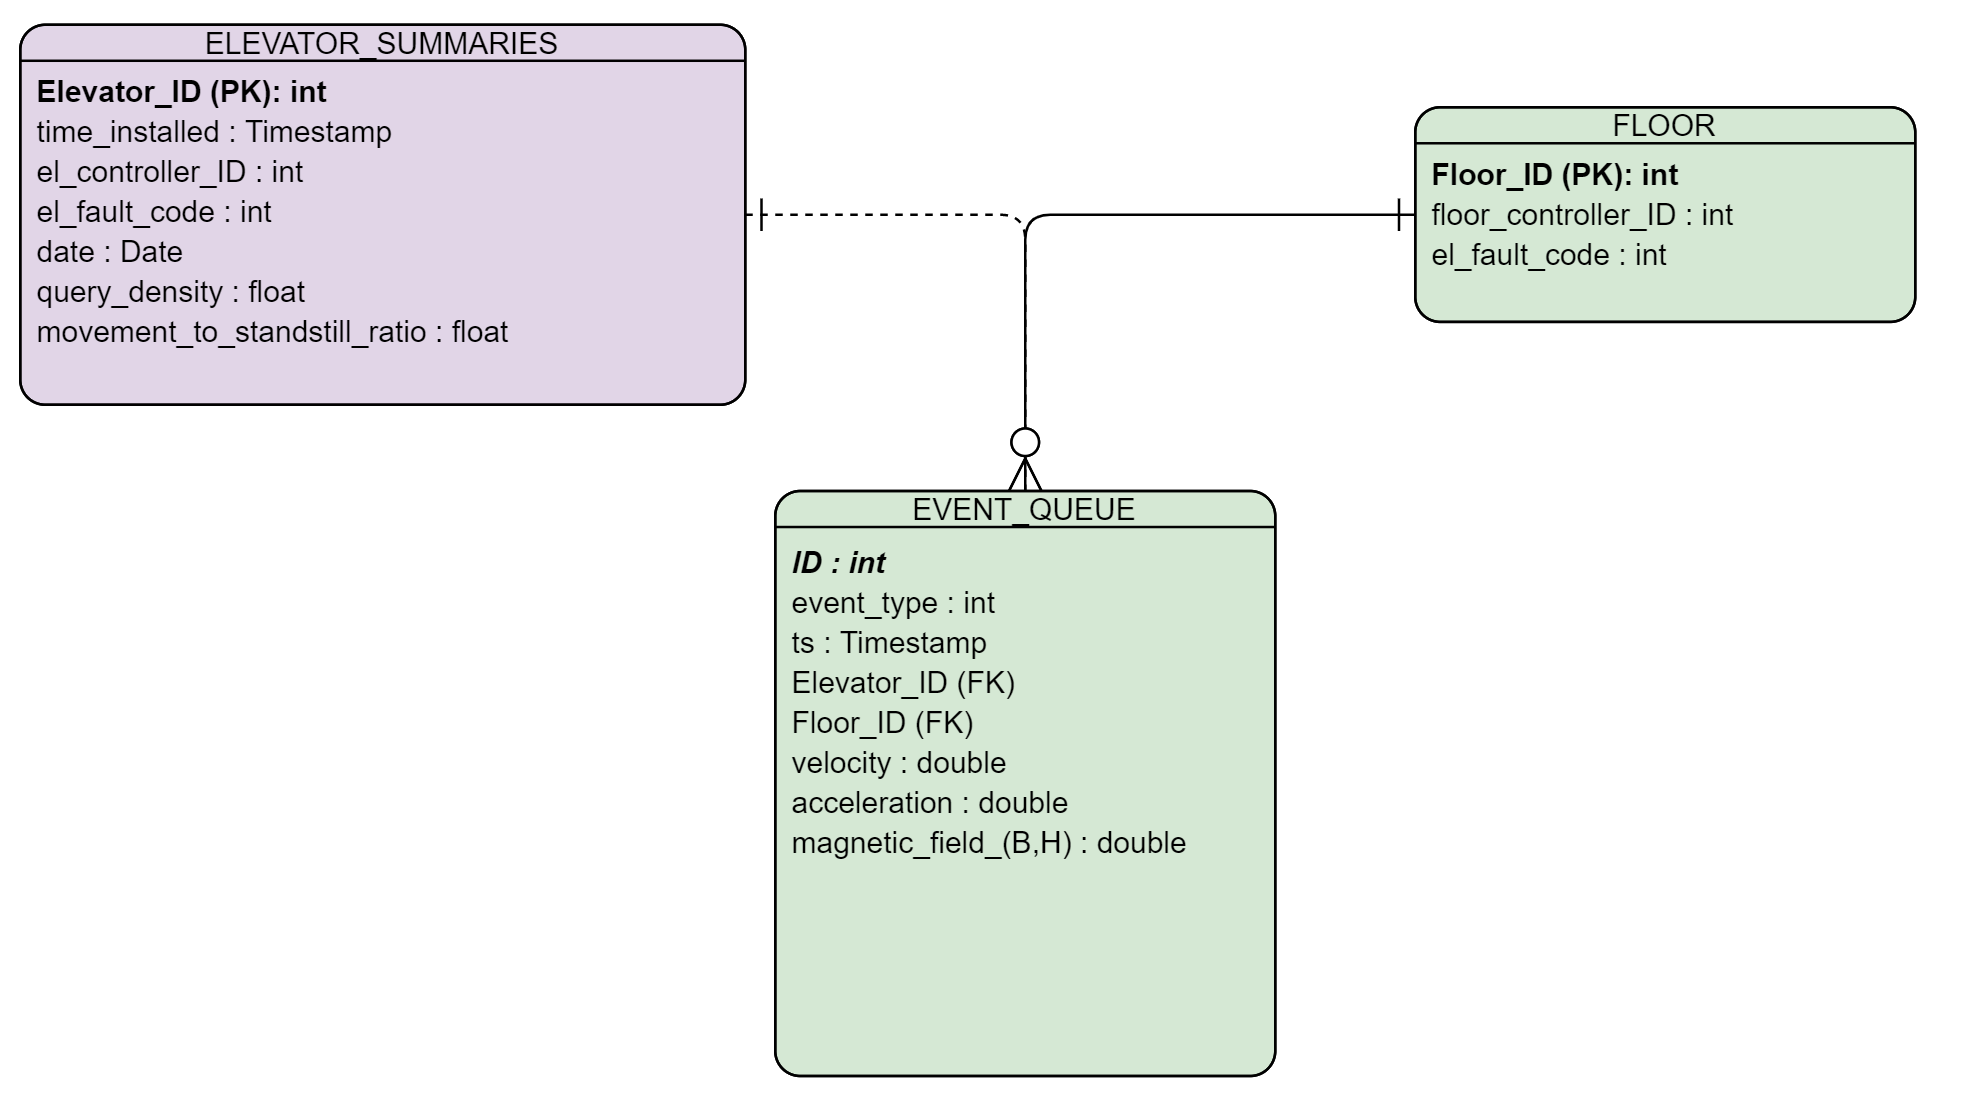
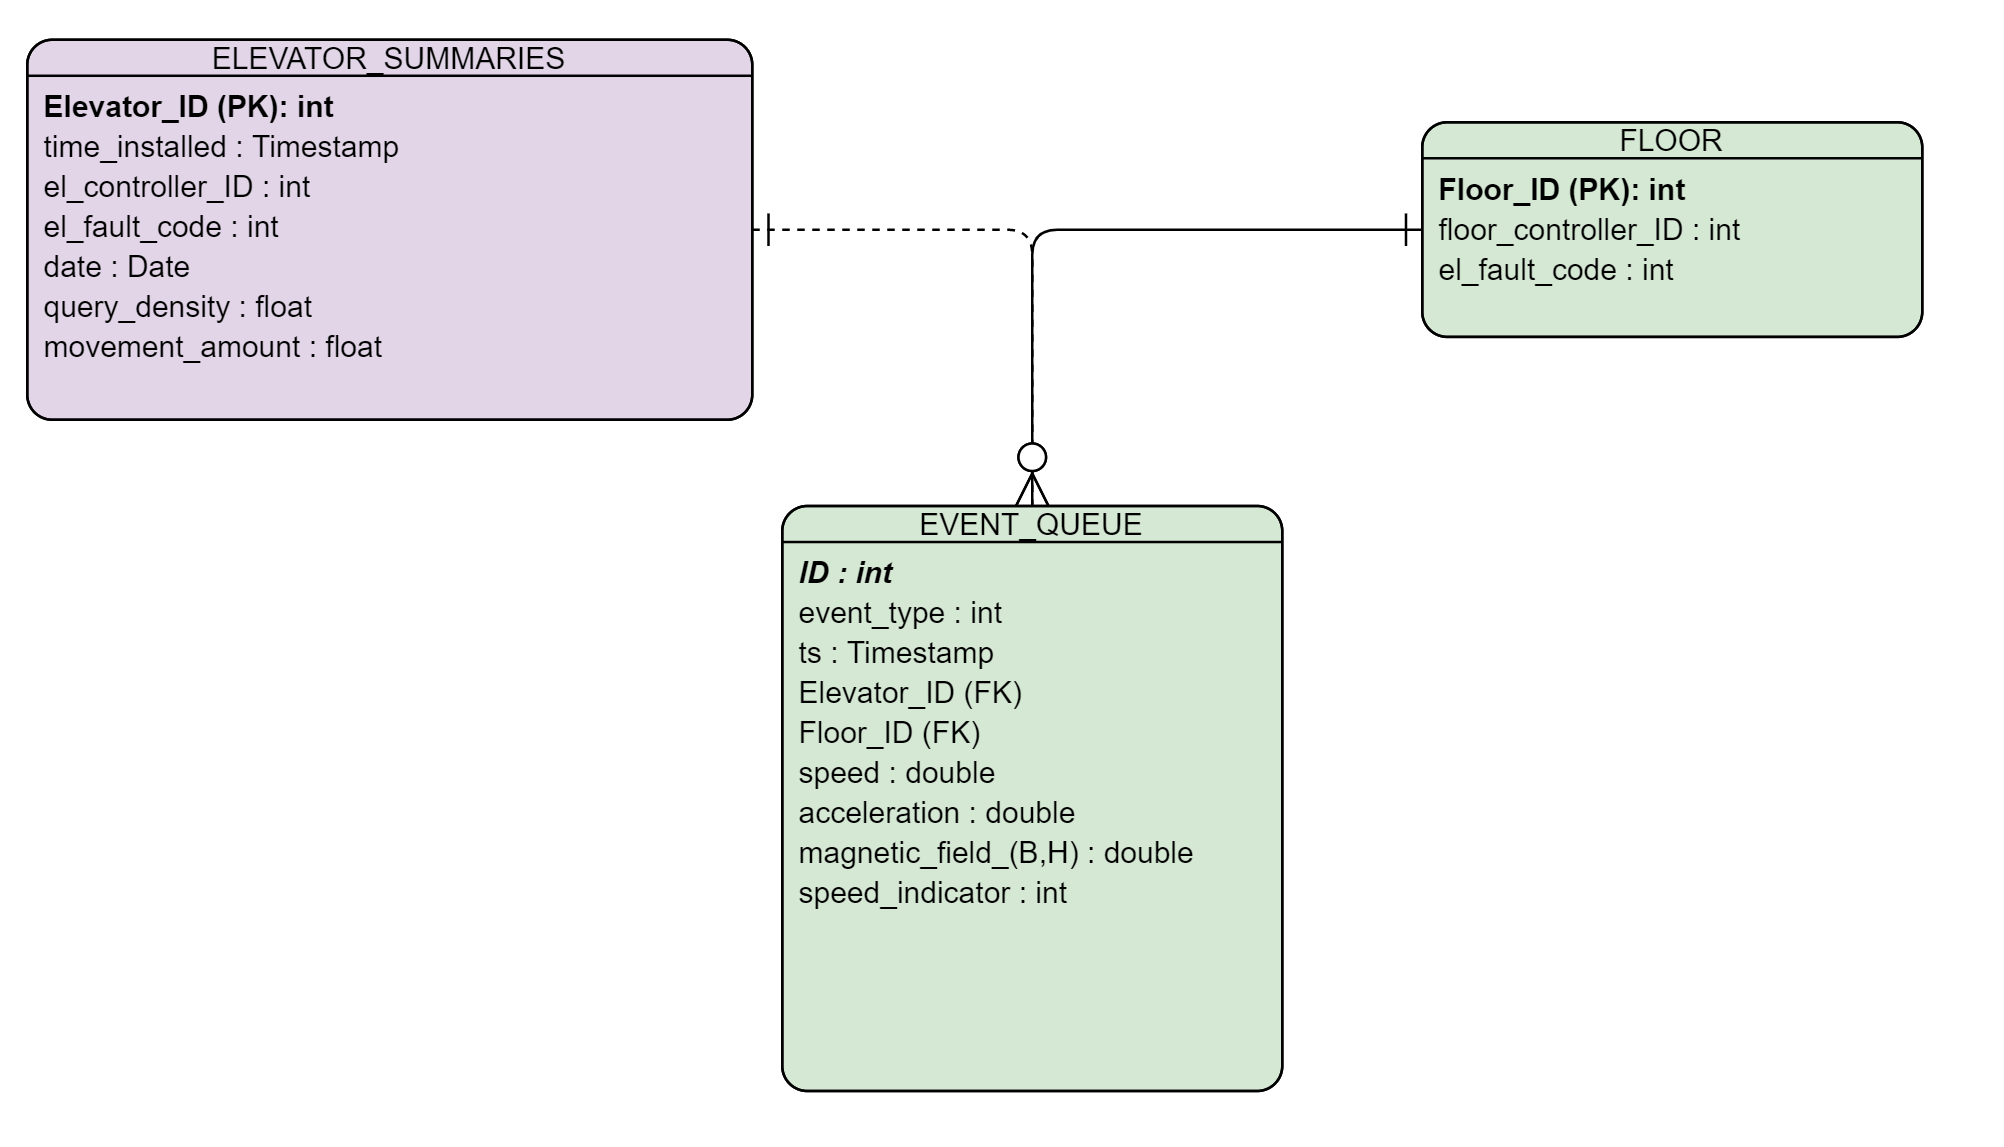
update

Changed region(s): [[0.0, 0.0, 0.9879, 0.9819]]

diff --git a/game_and_elevator_analysis/README.md b/game_and_elevator_analysis/README.md
@@ -1,29 +1,11 @@
 
-# Seriously Data Analyst Problem Set Solution
+# Mini-Project
 ## Alari Varmann
 
 ## GAME PLAYER ANALYSIS problem
-
-We would like to analyse how far players of a game progress as a function of age. The age is
-measured as the number of days since game installation. The progress is measured as a player’s
-level number at the end of a day. Note that, in some situations, a player may have to return back
-to an earlier level and continue from there. More specifically, we would like to know the average
-progress by age for two groups of players
-• Those players who actually played the game at a certain age (active players)
-• All players including those who happened not to play at a certain age
-There are two data sets available to conduct the task
-• Installation events with fields: player_id, timestamp
-• Level completion events with fields: player_id, timestamp, level_number
-The outcome of the task should include
-(1) An SQL script with queries that calculate the average progress by age and insert the results
-into a table with fields: age, avg_level_active, avg_level_all
-(2) An R or Python script that reads data from the results table, plots a chart with the two
-progress curves and saves the chart as an image file
-(3) The image file
-
 ### Solution
 
-(1)
+
 ~~~sql
 create table public.all_comb as (
 	WITH myconstants (playeramount, ageamount) as (
@@ -188,7 +170,7 @@ if __name__ == "__main__":
 
 (3)
 
-![Player Progress](player_progress.png)
+![Player Progress](player_progress_age.png)
 
 ## 2. ELEVATOR SIMULATION PROBLEM
 
@@ -334,29 +316,38 @@ To find these elevators, we can find how many trips the elevator has taken using
  -- When using lag, we can use (n-1)/2 as the amount of movements where n is the amount of movement changes
  -- Have to subtract 1 because lag indicates also the changes from the 0th non-existing record
 
-WITH basedata as (
-		 SELECT elevator_id,ts, speed_indicator,EXTRACT(hour from ts) as event_hour,
-          -- assigns 1 whenever speed_indicator changes
-          case when lag(speed_indicator) over (order by ts) = speed_indicator
-               then 0 -- when the previous value coindices with the current value
-               else 1 -- when the previous and current value don't coincide
-          end as gradient
-       from EVENT_QUEUE
-    ),
-	-- movements_per_elevator outputs amount of movements as defined by changes in in the velocity state for each elevator
-	movements_per_elevator as
-	(select elevator_id,(sum(gradient)-1)/2 as movements
-    from
-  	basedata
-	group by elevator_id)
-	,
-	top_elevators as
-	(select elevator_id from movements_per_elevator where movements > 10*percentile_cont(0.5) within group ( order by elevator_id,movements ))
 
-	select movements_per_elevator.elevator_id,movements as total_movements -- elevator_speed_counter
-	from
-	movements_per_elevator
-	where movements_per_elevator.elevator_id in (select elevator_id from top_elevators)
+  ---0---0--0---- (2n registrations for n movements, so in general sum over 2 is amount of movements)
+  -- When using lag, we can use (n-1)/2 as the amount of movements where n is the amount of movement changes
+  -- Have to subtract 1 because lag indicates also the changes from the 0th non-existing record
+
+ -- 	select speed_indicator,counter,counter/lead(counter) over (order by speed_indicator) as standstill_ratio
+ -- 	from (
+ WITH basedata as (
+ 		 SELECT elevator_id,ts, speed_indicator,EXTRACT(hour from ts) as event_hour,
+           -- assigns 1 whenever speed_indicator changes
+           case when lag(speed_indicator) over (order by ts) = speed_indicator
+                then 0 -- when the previous value coindices with the current value
+                else 1 -- when the previous and current value don't coincide
+           end as gradient
+        from testdata
+     ),
+ 	-- movements_per_elevator outputs amount of movements as defined by changes in in the velocity state for each elevator
+ 	movements_per_elevator as
+ 	(select elevator_id,EXTRACT(hour from ts) as hour_,(sum(gradient)-1)/2 as movements
+     from
+   	basedata
+ 	group by elevator_id,hour_)
+ 	,
+ 	top_elevators as
+ 	(select elevator_id,hour_ from movements_per_elevator where movements >  10*percentile_cont(0.5) within group (order by movements desc ) over (partition by hour_))
+
+ 	select movements_per_elevator.elevator_id,hour_,movements as total_movements -- elevator_speed_counter
+ 	from
+ 	movements_per_elevator
+ 	where movements_per_elevator.elevator_id in (select elevator_id from top_elevators) and movements_per_elevator.hour_ in (select hour_ from top_elevators)
+
+
 
 ~~~
 
